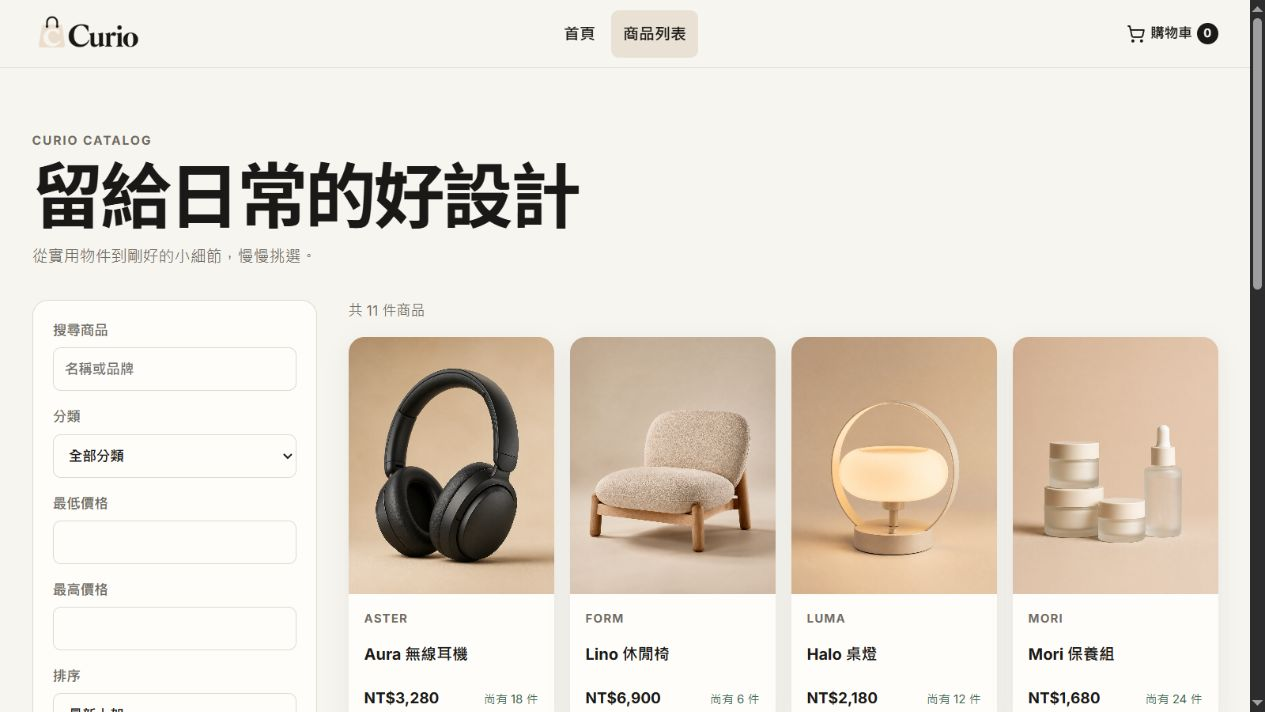
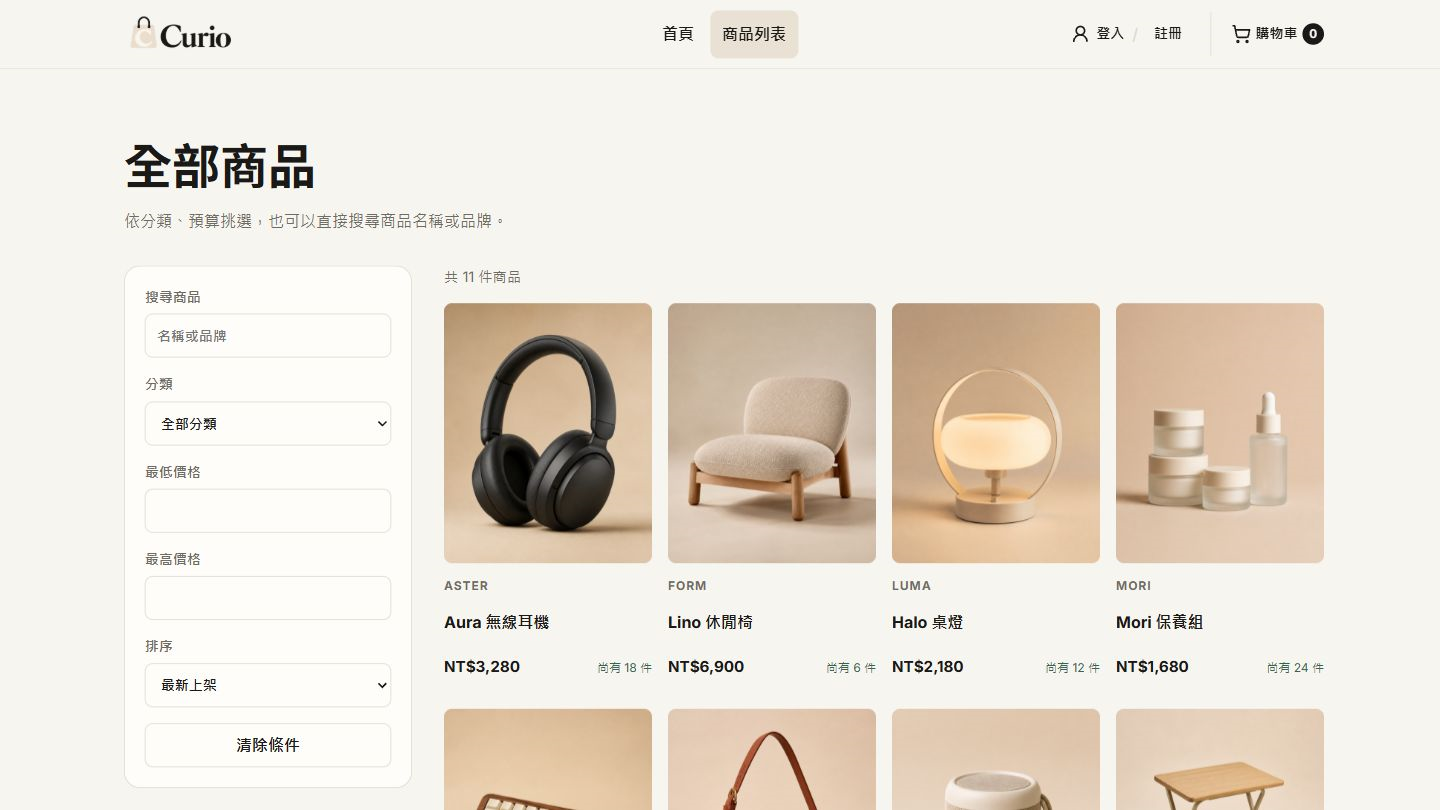
調整購物車作品圖片

diff --git a/src/components/__tests__/HomeView.spec.ts b/src/components/__tests__/HomeView.spec.ts
@@ -20,7 +20,9 @@ describe('HomeView', () => {
     const commercialProjectList = wrapper.get('#project-list')
 
     expect(commercialProjectList.findAll('[data-project-category="vue"]')).toHaveLength(0)
-    expect(commercialProjectList.findAll('[data-project-category="react"]').length).toBeGreaterThan(0)
+    expect(commercialProjectList.findAll('[data-project-category="react"]').length).toBeGreaterThan(
+      0,
+    )
   })
 
   it('connects filter controls to the live project results', async () => {
@@ -40,7 +42,7 @@ describe('HomeView', () => {
   it('presents three public frontend demos with live and source links', () => {
     const wrapper = mount(HomeView)
 
-    expect(wrapper.get('#public-projects-title').text()).toBe('可公開操作的前端作品')
+    expect(wrapper.get('#public-projects-title').text()).toBe('做過的一些作品')
     expect(wrapper.text()).toContain('資料由本地 Mock 或前端模擬器提供，尚未串接後端 API')
     expect(wrapper.get('a[href="https://toki-tabi.yk7579854.workers.dev"]')).toBeTruthy()
     expect(wrapper.get('a[href="https://shard-pulse.yk7579854.workers.dev"]')).toBeTruthy()
